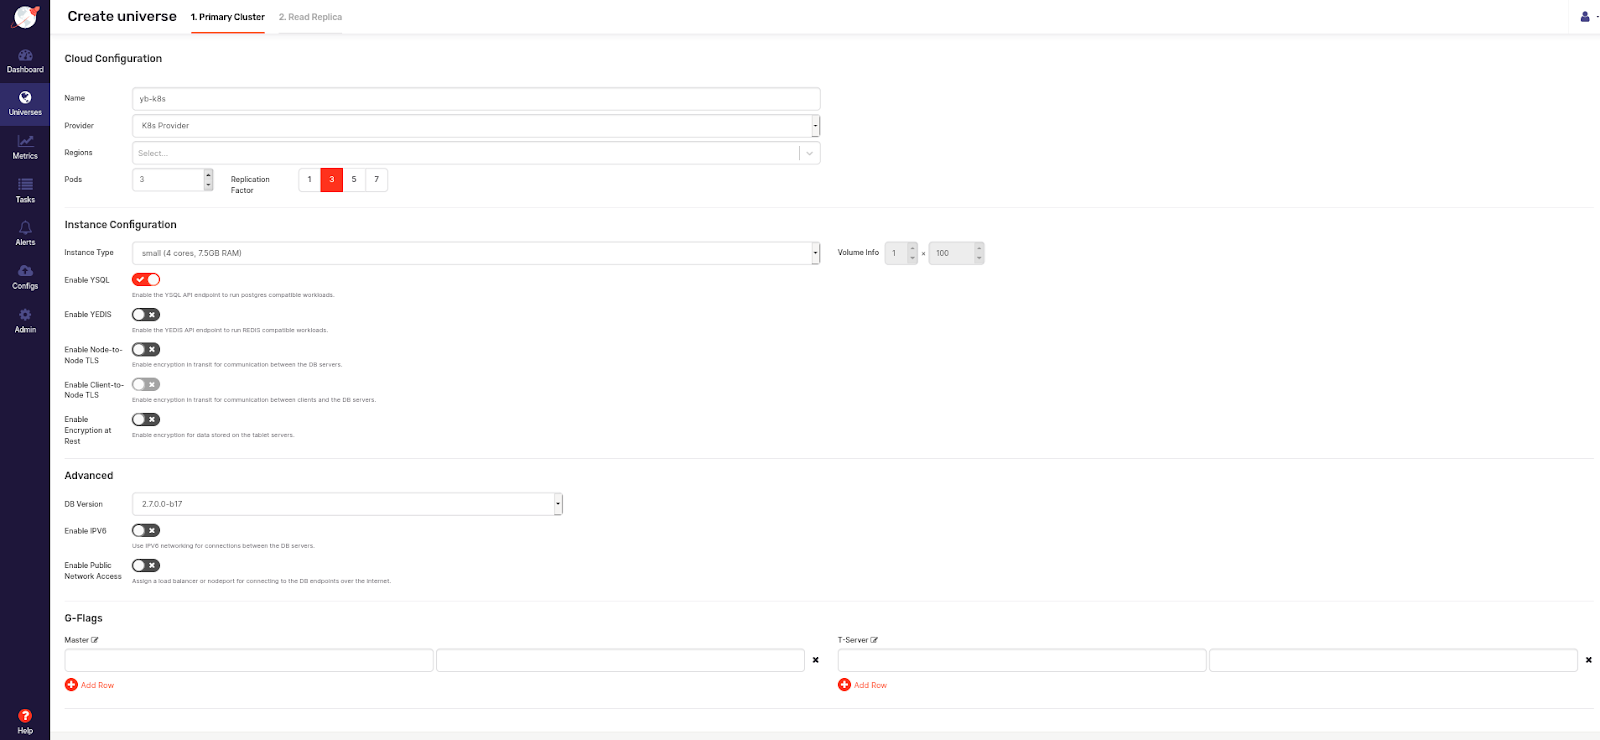
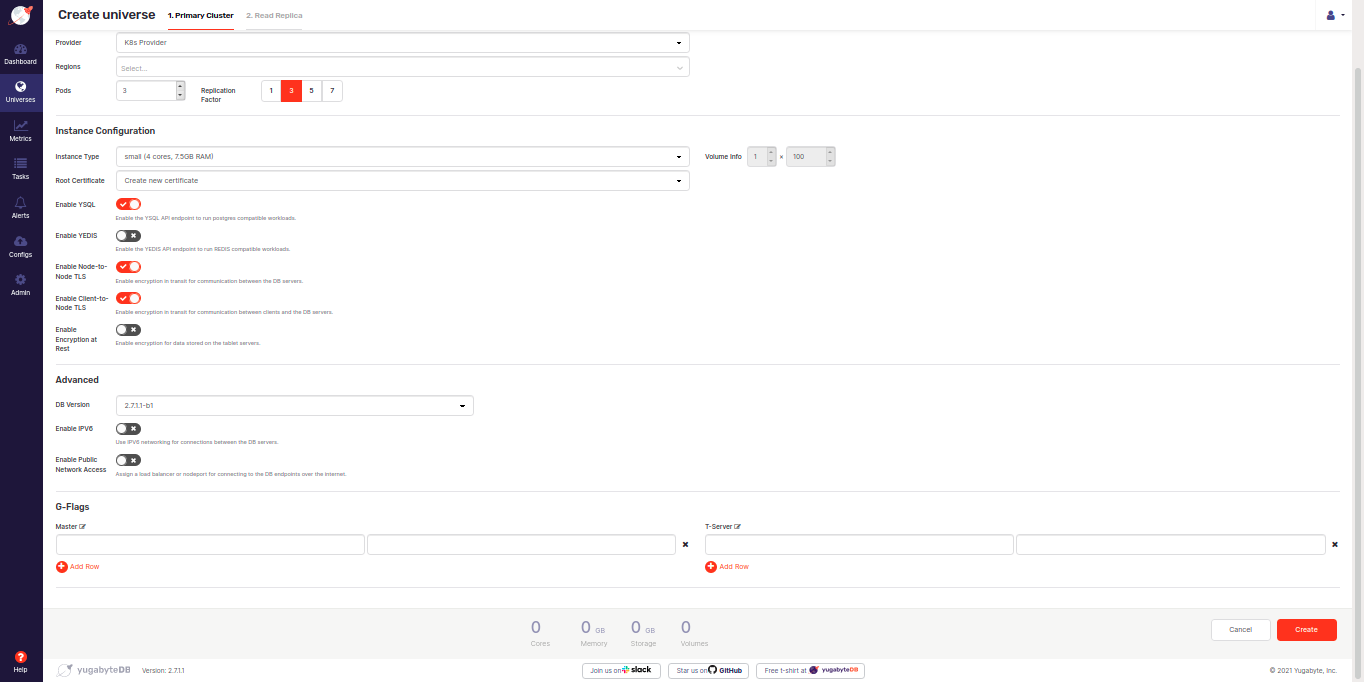
Implemented review comments

diff --git a/docs/content/latest/yugabyte-platform/create-deployments/create-universe-multi-zone-kubernetes.md b/docs/content/latest/yugabyte-platform/create-deployments/create-universe-multi-zone-kubernetes.md
@@ -33,11 +33,14 @@ This section describes how to create a YugabyteDB universe in one geographic reg
 
 ## Prerequisites
 
-Before you start creating a universe, ensure that you performed steps described in [Configure the Kubernetes cloud provider](https://docs.yugabyte.com/latest/yugabyte-platform/configure-yugabyte-platform/set-up-cloud-provider/kubernetes/). The following illustration shows the **Managed Kubernetes Service** configs page that you should be able to see if you use Yugabyte Platform to navigate to **Configs > Cloud Provider Configuration > Infrastructure > Managed Kubernetes Service**:
+Before you start creating a universe, ensure that you performed steps described in [Configure the Kubernetes cloud provider](https://docs.yugabyte.com/latest/yugabyte-platform/configure-yugabyte-platform/set-up-cloud-provider/kubernetes/). The following illustration shows the **Managed Kubernetes Service configs** page that you should be able to see if you use Yugabyte Platform to navigate to **Configs > Cloud Provider Configuration > Infrastructure > Managed Kubernetes Service**:
 
 ![img](/images/yb-platform/kubernetes-config1.png)
 
-Note that the cloud provider example used in this document has a cluster-level admin access.
+Note the following: 
+
+- Yugabyte Platform version 2.7.1.1 is used in examples throughout this document.
+- The cloud provider example used in this document has a cluster-level admin access.
 
 ## Create a universe
 
@@ -75,9 +78,9 @@ Complete the **Instance Configuration** section as follows:
 
 - Use the **Enable YEDIS** field to enable the YEDIS API endpoint to run REDIS-compatible workloads. This setting is disabled by default.
 
-- Use the **Enable Node-to-Node TLS** field to enable encryption-in-transit for communication between the database servers. This setting is disabled by default.
+- Use the **Enable Node-to-Node TLS** field to enable encryption-in-transit for communication between the database servers. This setting is enabled by default in Yugabyte Platform version 2.7.1.1 and later.
 
-- Use the **Enable Client-to-Node TLS** field to enable encryption-in-transit for communication between clients and the database servers. This setting is disabled by default.
+- Use the **Enable Client-to-Node TLS** field to enable encryption-in-transit for communication between clients and the database servers. This setting is enabled by default in Yugabyte Platform version 2.7.1.1 and later.
 
 - Use the **Enable Encryption at Rest** field to enable encryption for data stored on the tablet servers. This setting is disabled by default.
 
@@ -85,7 +88,7 @@ Complete the **Instance Configuration** section as follows:
 
 Complete the **Advanced** section as follows:
 
-- In the **DB Version** field, specify the YugabyteDB version. The latest version is the default.
+- In the **DB Version** field, specify the YugabyteDB version. The default is either the same as the Yugabyte Platform version or the latest YugabyteDB version available for Yugabyte Platform.
 
 - Use the **Enable IPV6** to enable the use of IPV6 networking for connections between the database servers. This setting is enbled by default.
 

diff --git a/docs/content/latest/yugabyte-platform/create-deployments/create-universe-multi-zone.md b/docs/content/latest/yugabyte-platform/create-deployments/create-universe-multi-zone.md
@@ -31,6 +31,10 @@ Generic</a>
 
 This section describes how to create a YugabyteDB universe using any cloud provider, except Kubernetes, in one geographic region across multiple availability zones.
 
+## Prerequisites
+
+Before you start creating a universe, ensure that you performed steps applicable to the cloud provider of your choice, as described in [Configure a cloud provider](https://docs.yugabyte.com/latest/yugabyte-platform/configure-yugabyte-platform/set-up-cloud-provider/). 
+
 ## Create a universe
 
 If no universes have been created yet, the Yugabyte Platform Dashboard looks similar to the following:
